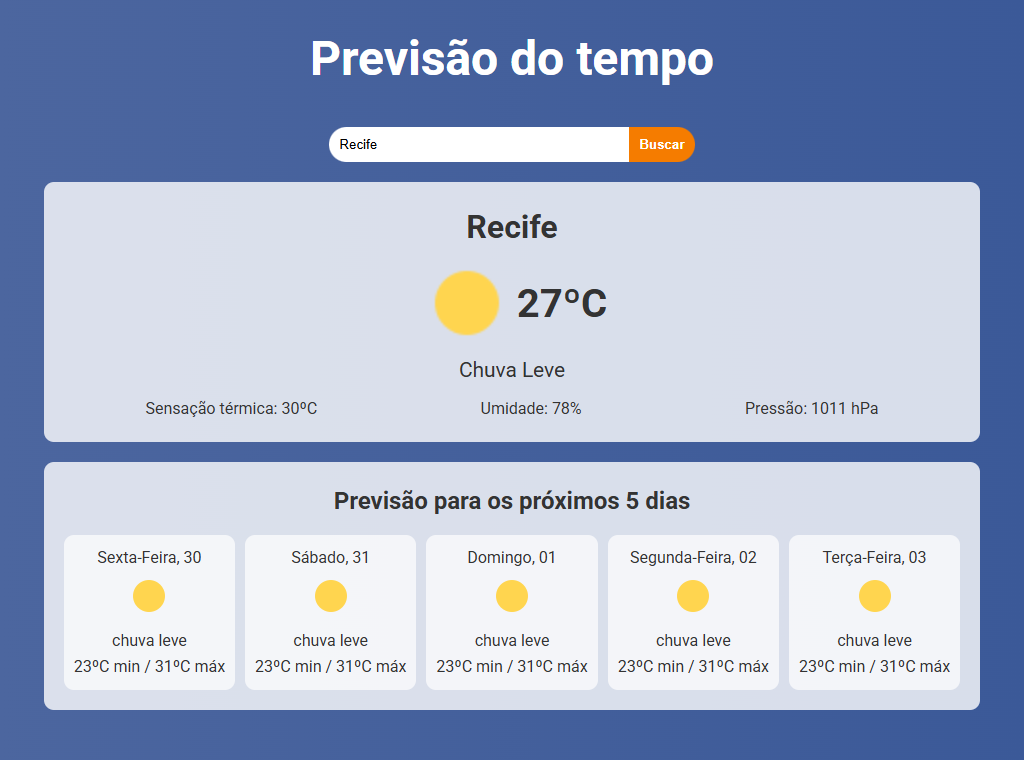
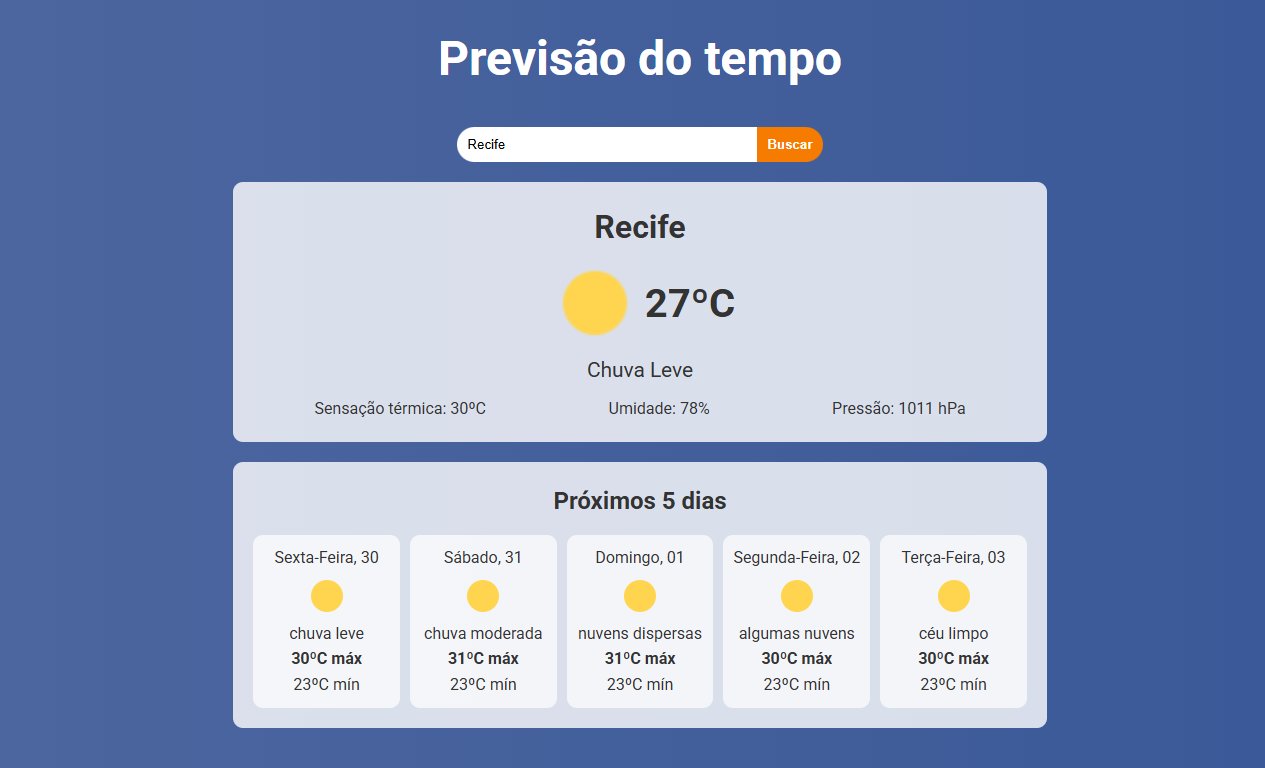
feat: redesenhar a previsão de 5 dias (uma linha por dia no celular, 5 colunas no desktop)
- Cartões altos empilhados viram linhas compactas até 1024 px e 5 colunas a partir daí
- Título "Próximos 5 dias" não quebra mais de linha
- Lista semântica (ul/li) e máxima em destaque; testes e capturas do README atualizados

diff --git a/src/features/weather/components/Forecast/Forecast.tsx b/src/features/weather/components/Forecast/Forecast.tsx
@@ -10,22 +10,28 @@ function Forecast({ forecast }: ForecastProps) {
 
   return (
     <div className="my-5 rounded-[10px] bg-[rgba(255,255,255,0.8)] p-5">
-      <h3 className="mb-[15px] text-[1.5rem] text-balance">Previsão para os próximos 5 dias</h3>
-      <div className="flex flex-wrap items-center justify-center gap-2.5">
+      <h3 className="mb-[15px] text-[1.5rem]">Próximos 5 dias</h3>
+      {/* Celular e tablet: uma linha por dia. Telas largas: 5 colunas, uma por dia. */}
+      <ul className="mx-auto flex max-w-[480px] list-none flex-col gap-2.5 lg:grid lg:max-w-none lg:grid-cols-5">
         {days.map((day) => (
-          <div
+          <li
             key={day.date}
-            className="rounded-[10px] bg-[rgba(255,255,255,0.7)] p-2.5 text-center"
+            className="grid grid-cols-[auto_1fr_auto] items-center gap-x-3 rounded-[10px] bg-[rgba(255,255,255,0.7)] p-2.5 text-left lg:flex lg:flex-col lg:gap-x-0 lg:text-center"
           >
-            <p className="text-[1rem] capitalize">{formatDay(day.date)}</p>
-            <img src={`https://openweathermap.org/img/wn/${day.icon}.png`} alt="" />
-            <p>{day.description}</p>
-            <p>
-              {Math.round(day.min)}ºC min / {Math.round(day.max)}ºC máx
-            </p>
-          </div>
+            <img
+              src={`https://openweathermap.org/img/wn/${day.icon}.png`}
+              alt=""
+              className="row-span-2 lg:order-2"
+            />
+            <p className="col-start-2 capitalize lg:order-1">{formatDay(day.date)}</p>
+            <p className="col-start-2 lg:order-3">{day.description}</p>
+            <div className="col-start-3 row-span-2 row-start-1 text-right lg:order-4 lg:text-center">
+              <p className="font-bold">{Math.round(day.max)}ºC máx</p>
+              <p>{Math.round(day.min)}ºC mín</p>
+            </div>
+          </li>
         ))}
-      </div>
+      </ul>
     </div>
   );
 }

diff --git a/src/App.test.tsx b/src/App.test.tsx
@@ -90,8 +90,9 @@ describe('App', () => {
     expect(screen.getByText('Sensação térmica: 30ºC')).toBeInTheDocument();
     expect(screen.getByText('Umidade: 80%')).toBeInTheDocument();
     expect(screen.getByText('Pressão: 1012 hPa')).toBeInTheDocument();
-    expect(screen.getByText('Previsão para os próximos 5 dias')).toBeInTheDocument();
-    expect(screen.getAllByText('20ºC min / 30ºC máx')).toHaveLength(5);
+    expect(screen.getByRole('heading', { name: 'Próximos 5 dias' })).toBeInTheDocument();
+    expect(screen.getAllByText('30ºC máx')).toHaveLength(5);
+    expect(screen.getAllByText('20ºC mín')).toHaveLength(5);
   });
 
   it('should search when Enter is pressed', async () => {

diff --git a/README.md b/README.md
@@ -14,7 +14,7 @@ _Capturas feitas com dados de exemplo._
 
 - Busca por nome da cidade (botão **Buscar** ou Enter).
 - Clima atual: temperatura, descrição, sensação térmica, umidade e pressão.
-- Previsão dos próximos 5 dias, com mínima e máxima de cada dia no fuso da cidade.
+- Previsão dos próximos 5 dias, com mínima e máxima de cada dia no fuso da cidade: uma linha por dia no celular e no tablet, e 5 colunas a partir de 1024 px.
 - Fundo e animação conforme o código de condição do OpenWeather: chuva (trovoada, garoa e chuva), neve e nuvens; céu limpo não tem animação.
 - Mensagens claras para cidade não encontrada, campo vazio e falhas do serviço.
 - As animações são desligadas para quem prefere menos movimento (`prefers-reduced-motion`).
@@ -89,3 +89,4 @@ src/
 - **Condição pelo código da API:** a animação usa o `id` do OpenWeather, e não o texto da descrição, que depende do idioma.
 - **Previsão por dia:** o OpenWeather devolve intervalos de 3 horas; eles são agrupados pela data da cidade e a descrição do dia é a do intervalo mais próximo do meio-dia.
 - **Tailwind sem preflight:** o visual original depende dos estilos nativos do navegador; o Tailwind entra só com tema e utilitárias, para o layout ficar idêntico ao da versão anterior.
+- **Previsão de 5 dias responsiva:** foi a única parte do visual redesenhada em relação à versão original. Os cartões altos empilhados deram lugar a uma linha por dia (celular e tablet) e a 5 colunas (a partir de 1024 px), e o título ficou curto ("Próximos 5 dias") para nunca quebrar de linha.
